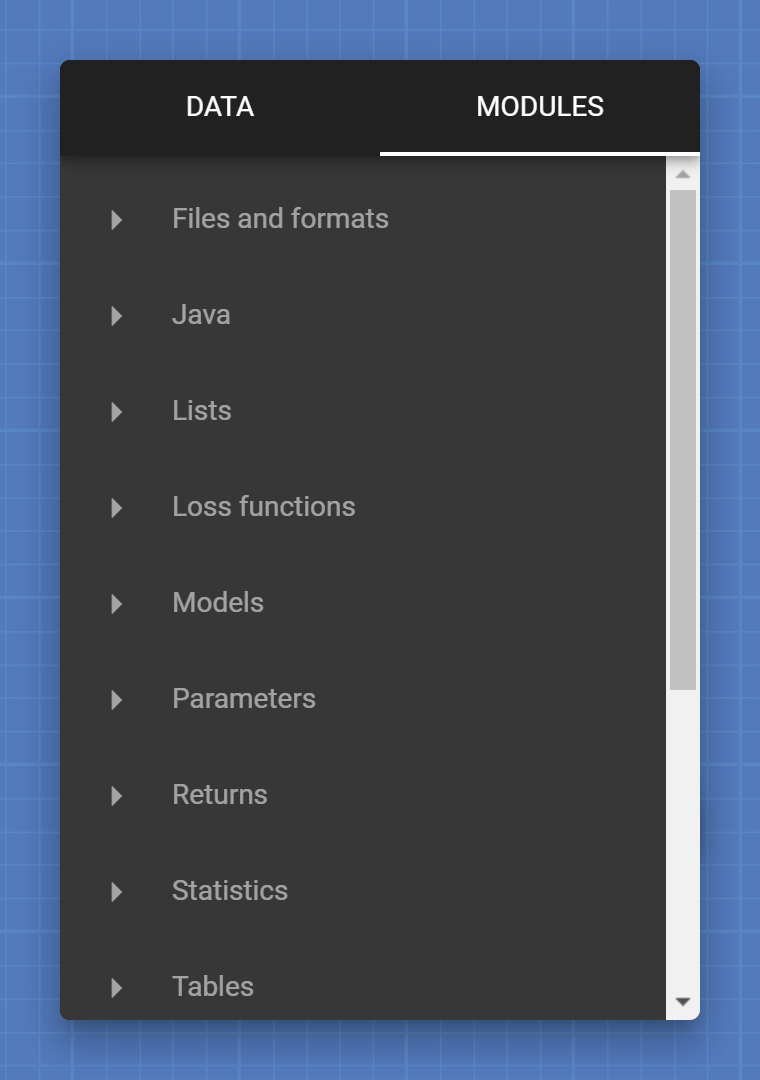
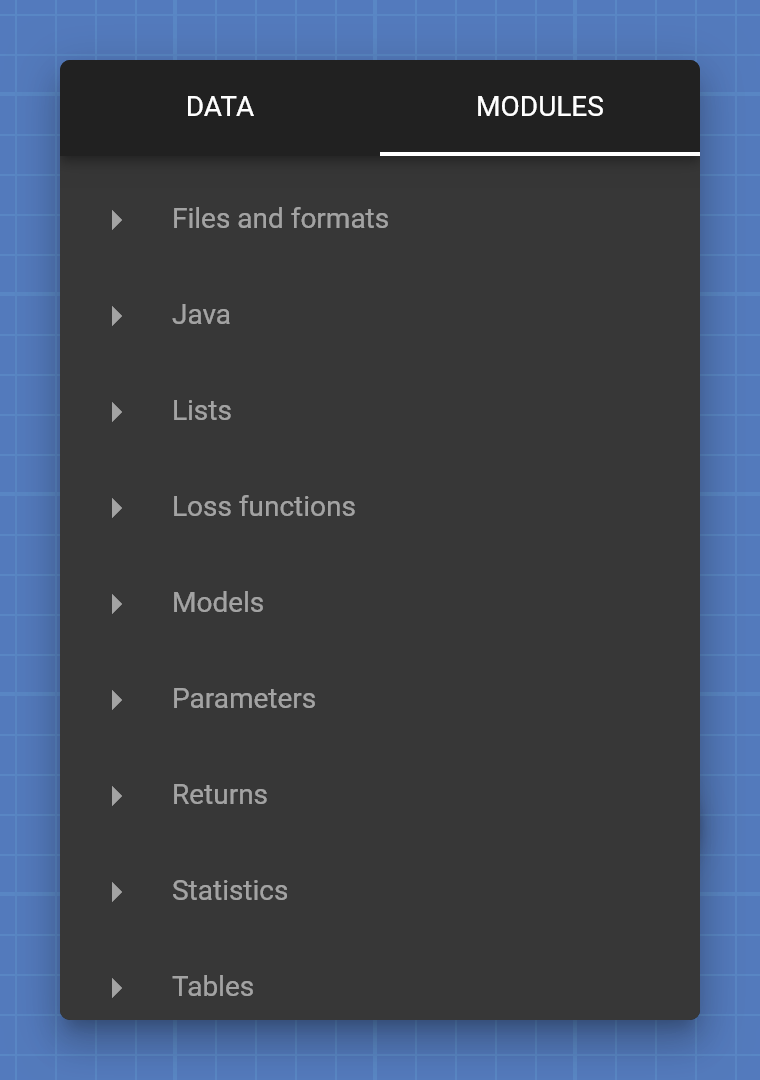
Regenerated images

Changed region(s): [[0.8776, 0.1222, 0.9382, 0.9472]]

diff --git a/_screenshot_maker/index.js b/_screenshot_maker/index.js
@@ -2,7 +2,7 @@ const fs = require('fs');
 const request = require('request-promise-native');
 const captureWebsite = require('capture-website');
 
-const DEBUG = true;
+const DEBUG = false;
 
 const constants = {
     username: 'juan',
@@ -10,10 +10,10 @@ const constants = {
 };
 
 let chosenPlans = null;
-chosenPlans = ['basics/result_2'];
+//chosenPlans = ['work_screen/create_1'];
 
 (async () => {
-    const directOptions = ['element', 'clickElement'];
+    const directOptions = ['element', 'clickElement', "styles"];
 
     const defaultPlanOptions = {
         login: true,
